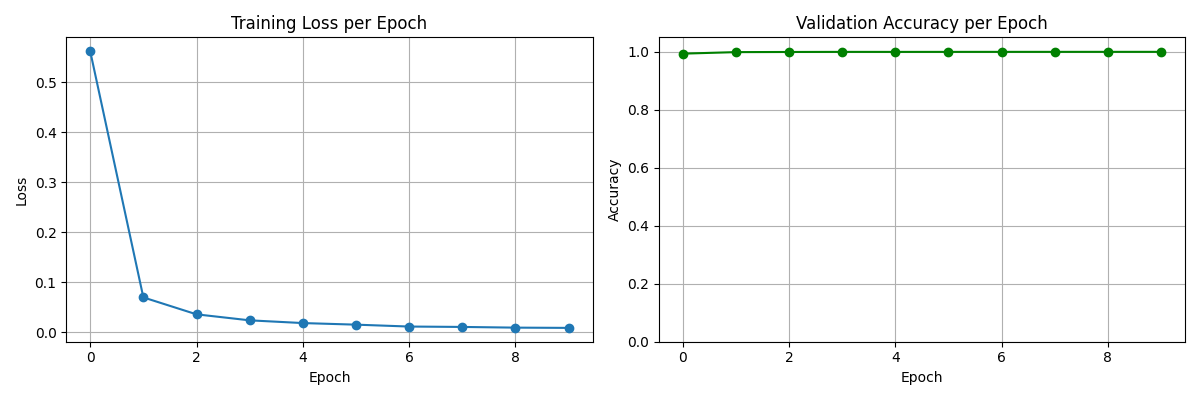
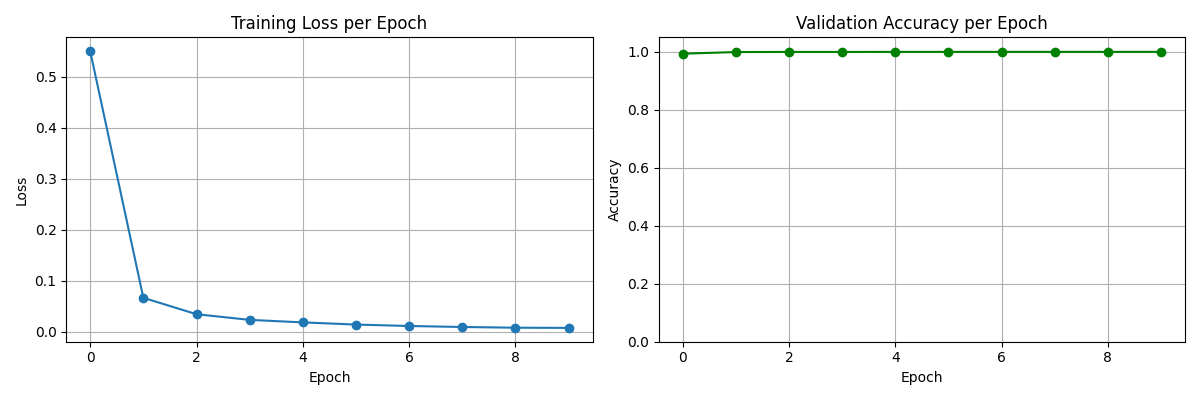
Add model save/load and hand-drawn digit prediction GUI

diff --git a/predict_draw.py b/predict_draw.py
@@ -1,0 +1,82 @@
+import tkinter as tk
+from PIL import Image, ImageDraw
+import numpy as np
+
+from src.layers import Dense
+from src.activations import ReLU
+from src.dropout import Dropout
+from src.network import Sequential
+from config import IMAGE_SIZE
+
+CANVAS_SIZE = 280  # bigger canvas for easier drawing, downscaled to 28x28 for the model
+BRUSH_RADIUS = 8
+
+
+def build_network():
+    net = Sequential([
+        Dense(784, 128, seed=1),
+        ReLU(),
+        Dropout(drop_prob=0.3),
+        Dense(128, 64, seed=2),
+        ReLU(),
+        Dense(64, 10, seed=3),
+    ])
+    net.load_weights("model_weights.npz")
+    net.eval()  # disable dropout at inference time
+    return net
+
+
+class DrawApp:
+    def __init__(self, root, net):
+        self.net = net
+        self.root = root
+        self.root.title("Draw a digit (0-9)")
+
+        # black background canvas, matching the training data (bright stroke on dark background)
+        self.canvas = tk.Canvas(root, width=CANVAS_SIZE, height=CANVAS_SIZE, bg="black")
+        self.canvas.pack()
+        self.canvas.bind("<B1-Motion>", self.paint)
+
+        # PIL image kept in sync with the canvas, used for the actual prediction
+        self.image = Image.new("L", (CANVAS_SIZE, CANVAS_SIZE), color=0)
+        self.draw = ImageDraw.Draw(self.image)
+
+        button_frame = tk.Frame(root)
+        button_frame.pack(pady=5)
+        tk.Button(button_frame, text="Predict", command=self.predict).pack(side="left", padx=5)
+        tk.Button(button_frame, text="Clear", command=self.clear).pack(side="left", padx=5)
+
+        self.result_label = tk.Label(root, text="Draw a digit and click Predict", font=("Arial", 14))
+        self.result_label.pack(pady=5)
+
+    def paint(self, event):
+        x, y = event.x, event.y
+        r = BRUSH_RADIUS
+        self.canvas.create_oval(x - r, y - r, x + r, y + r, fill="white", outline="white")
+        self.draw.ellipse([x - r, y - r, x + r, y + r], fill=255)
+
+    def clear(self):
+        self.canvas.delete("all")
+        self.image = Image.new("L", (CANVAS_SIZE, CANVAS_SIZE), color=0)
+        self.draw = ImageDraw.Draw(self.image)
+        self.result_label.config(text="Draw a digit and click Predict")
+
+    def predict(self):
+        img_small = self.image.resize((IMAGE_SIZE, IMAGE_SIZE))
+        arr = np.array(img_small, dtype=np.float32) / 255.0
+        x = arr.flatten().reshape(1, -1)
+
+        logits = self.net.forward(x)
+        shifted = logits - logits.max()
+        probs = np.exp(shifted) / np.sum(np.exp(shifted))
+        predicted = int(np.argmax(probs))
+        confidence = float(probs[0, predicted])
+
+        self.result_label.config(text=f"Predicted: {predicted}  (confidence: {confidence:.2%})")
+
+
+if __name__ == "__main__":
+    net = build_network()
+    root = tk.Tk()
+    app = DrawApp(root, net)
+    root.mainloop()

diff --git a/src/network.py b/src/network.py
@@ -1,3 +1,5 @@
+import numpy as np
+
 class Sequential:
     """Chains a list of layers together (Dense, ReLU, etc.) in order."""
 
@@ -32,3 +34,18 @@ class Sequential:
         for layer in self.layers:
             if hasattr(layer, "eval"):
                 layer.eval()
+
+    def save_weights(self, path):
+        weights = {}
+        for i, layer in enumerate(self.get_trainable_layers()):
+            weights[f"W{i}"] = layer.W
+            weights[f"b{i}"] = layer.b
+        np.savez(path, **weights)
+        print(f"Saved model weights to {path}")
+
+    def load_weights(self, path):
+        data = np.load(path)
+        for i, layer in enumerate(self.get_trainable_layers()):
+            layer.W = data[f"W{i}"]
+            layer.b = data[f"b{i}"]
+        print(f"Loaded model weights from {path}")

diff --git a/train.py b/train.py
@@ -133,6 +133,8 @@ def main():
     test_acc = accuracy(test_logits, y_test)
     print(f"\nFinal test accuracy: {test_acc:.4f}")
 
+    net.save_weights("model_weights.npz")
+
     # --- plots ---
     plot_training_curves(train_loss_history, val_acc_history)
 
